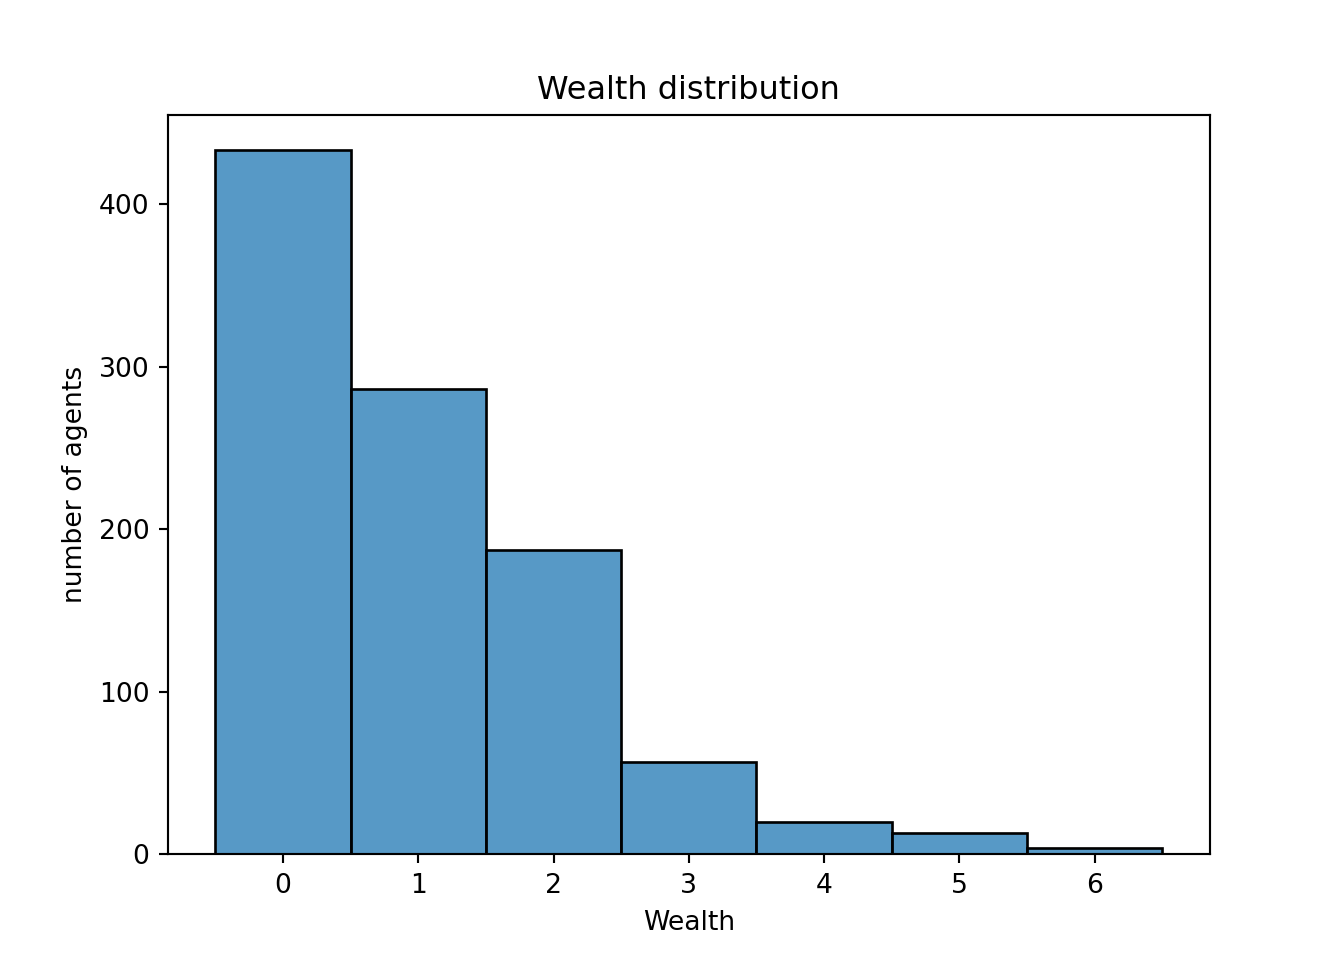
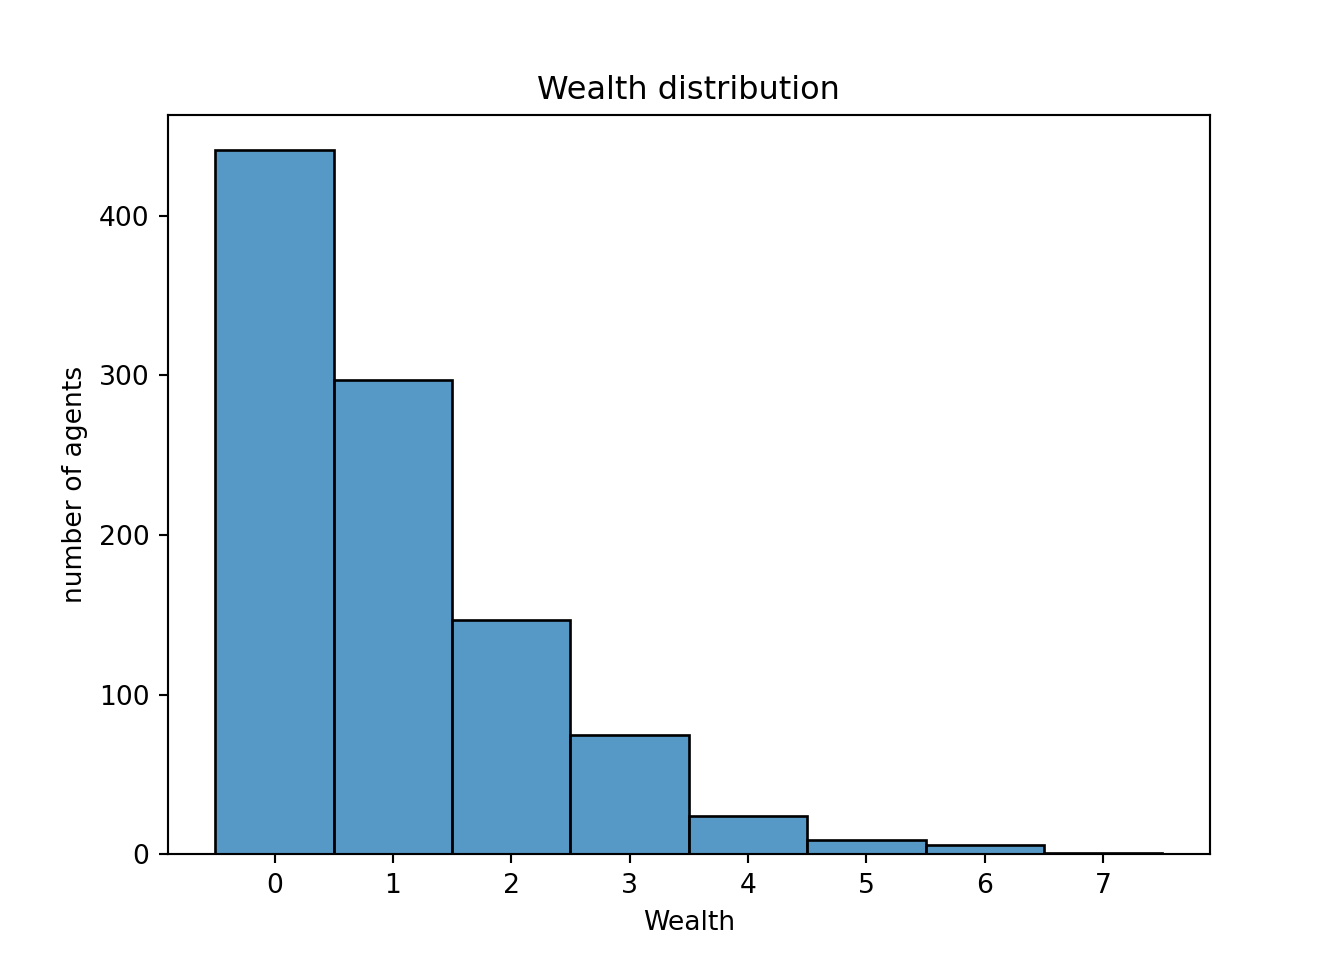
update

diff --git a/docs/index.html b/docs/index.html
@@ -8,7 +8,7 @@
 
 <meta name="author" content="楼上">
 <meta name="author" content="Mesa 开发团队 (提供demo)">
-<meta name="dcterms.date" content="2025-06-24">
+<meta name="dcterms.date" content="2025-06-25">
 <meta name="description" content="使用 R 调用 Mesa 库构建 ABM，模型 demo 完全来源于 Mesa 官方教程， 代码经过轻度改编，持续更新中。">
 
 <title>在 R 中使用 Python 模块 Mesa 来创建 ABM 模型</title>
@@ -162,6 +162,10 @@ pre > code.sourceCode > span > a:first-child::before { text-decoration: underlin
   <li><a href="#创建-cellagent" id="toc-创建-cellagent" class="nav-link" data-scroll-target="#创建-cellagent"><span class="header-section-number">3.4.1</span> 创建 CellAgent</a></li>
   <li><a href="#创建模型类-1" id="toc-创建模型类-1" class="nav-link" data-scroll-target="#创建模型类-1"><span class="header-section-number">3.4.2</span> 创建模型类</a></li>
   <li><a href="#运行模型-2" id="toc-运行模型-2" class="nav-link" data-scroll-target="#运行模型-2"><span class="header-section-number">3.4.3</span> 运行模型</a></li>
+  <li><a href="#可视化-1" id="toc-可视化-1" class="nav-link" data-scroll-target="#可视化-1"><span class="header-section-number">3.4.4</span> 可视化</a>
+  <ul class="collapse">
+  <li><a href="#用-r-可视化" id="toc-用-r-可视化" class="nav-link" data-scroll-target="#用-r-可视化"><span class="header-section-number">3.4.4.1</span> 用 R 可视化</a></li>
+  </ul></li>
   </ul></li>
   </ul></li>
   </ul>
@@ -199,7 +203,7 @@ pre > code.sourceCode > span > a:first-child::before { text-decoration: underlin
     <div>
     <div class="quarto-title-meta-heading">Published</div>
     <div class="quarto-title-meta-contents">
-      <p class="date">June 24, 2025</p>
+      <p class="date">June 25, 2025</p>
     </div>
   </div>
   
@@ -327,16 +331,16 @@ pre > code.sourceCode > span > a:first-child::before { text-decoration: underlin
 <span id="cb7-5"><a href="#cb7-5" aria-hidden="true" tabindex="-1"></a><span class="co">#运行模型的 step 方法，激活所有 Agent</span></span>
 <span id="cb7-6"><a href="#cb7-6" aria-hidden="true" tabindex="-1"></a>starter_model.step()</span></code><button title="Copy to Clipboard" class="code-copy-button"><i class="bi"></i></button></pre></div>
 <div class="cell-output cell-output-stdout">
-<pre><code>Hi, I am an agent, you can call me 7.
-Hi, I am an agent, you can call me 6.
-Hi, I am an agent, you can call me 8.
-Hi, I am an agent, you can call me 5.
-Hi, I am an agent, you can call me 9.
+<pre><code>Hi, I am an agent, you can call me 3.
 Hi, I am an agent, you can call me 2.
-Hi, I am an agent, you can call me 1.
+Hi, I am an agent, you can call me 7.
+Hi, I am an agent, you can call me 10.
+Hi, I am an agent, you can call me 5.
+Hi, I am an agent, you can call me 8.
+Hi, I am an agent, you can call me 9.
 Hi, I am an agent, you can call me 4.
-Hi, I am an agent, you can call me 3.
-Hi, I am an agent, you can call me 10.</code></pre>
+Hi, I am an agent, you can call me 1.
+Hi, I am an agent, you can call me 6.</code></pre>
 </div>
 </div>
 <p>如果在创建对象时传入了 <code>seed</code> 参数，则每次运行模型时 <code>Agent</code> 的顺序会保持一致。</p>
@@ -391,16 +395,16 @@ Hi, I am an agent, you can call me 8.</code></pre>
 <span id="cb11-28"><a href="#cb11-28" aria-hidden="true" tabindex="-1"></a>starter_model <span class="op">=</span> MoneyModel(<span class="dv">10</span>)</span>
 <span id="cb11-29"><a href="#cb11-29" aria-hidden="true" tabindex="-1"></a>starter_model.step()</span></code><button title="Copy to Clipboard" class="code-copy-button"><i class="bi"></i></button></pre></div>
 <div class="cell-output cell-output-stdout">
-<pre><code>Hi, I am an agent 5,and I have 1 dollars.
-Hi, I am an agent 8,and I have 1 dollars.
-Hi, I am an agent 2,and I have 1 dollars.
-Hi, I am an agent 9,and I have 1 dollars.
-Hi, I am an agent 4,and I have 1 dollars.
-Hi, I am an agent 6,and I have 1 dollars.
+<pre><code>Hi, I am an agent 4,and I have 1 dollars.
+Hi, I am an agent 5,and I have 1 dollars.
 Hi, I am an agent 7,and I have 1 dollars.
-Hi, I am an agent 3,and I have 1 dollars.
+Hi, I am an agent 6,and I have 1 dollars.
 Hi, I am an agent 10,and I have 1 dollars.
-Hi, I am an agent 1,and I have 1 dollars.</code></pre>
+Hi, I am an agent 8,and I have 1 dollars.
+Hi, I am an agent 3,and I have 1 dollars.
+Hi, I am an agent 1,and I have 1 dollars.
+Hi, I am an agent 9,and I have 1 dollars.
+Hi, I am an agent 2,and I have 1 dollars.</code></pre>
 </div>
 </div>
 </section>
@@ -547,12 +551,12 @@ Hi, I am an agent 1,and I have 1 dollars.</code></pre>
 <pre><code># A tibble: 6 × 1
   wealth
    &lt;int&gt;
-1      1
-2      2
-3      1
+1      0
+2      3
+3      0
 4      2
-5      2
-6      0</code></pre>
+5      1
+6      2</code></pre>
 </div>
 <div class="sourceCode cell-code" id="cb22"><pre class="sourceCode r code-with-copy"><code class="sourceCode r"><span id="cb22-1"><a href="#cb22-1" aria-hidden="true" tabindex="-1"></a><span class="fu">ggplot</span>(all_wealth_r, <span class="fu">aes</span>(<span class="at">x =</span> wealth)) <span class="sc">+</span></span>
 <span id="cb22-2"><a href="#cb22-2" aria-hidden="true" tabindex="-1"></a>  <span class="fu">geom_histogram</span>(<span class="at">binwidth =</span> <span class="dv">1</span>, <span class="at">boundary =</span> <span class="dv">0</span>, <span class="at">closed =</span> <span class="st">"left"</span>,</span>
@@ -757,8 +761,88 @@ Hi, I am an agent 1,and I have 1 dollars.</code></pre>
 </section>
 <section id="运行模型-2" class="level3" data-number="3.4.3">
 <h3 data-number="3.4.3" class="anchored" data-anchor-id="运行模型-2"><span class="header-section-number">3.4.3</span> 运行模型</h3>
+<p>在一个 10x10 的网格上创建一个包含 100 个智能体的模型，并运行 20 步。</p>
+<div class="cell language-marker" data-display-language="true">
+<div class="sourceCode cell-code" id="cb29"><pre class="sourceCode python code-with-copy"><code class="sourceCode python"><span id="cb29-1"><a href="#cb29-1" aria-hidden="true" tabindex="-1"></a>model <span class="op">=</span> MoneyModel(<span class="dv">100</span>, <span class="dv">10</span>, <span class="dv">10</span>)</span>
+<span id="cb29-2"><a href="#cb29-2" aria-hidden="true" tabindex="-1"></a><span class="cf">for</span> _ <span class="kw">in</span> <span class="bu">range</span>(<span class="dv">20</span>):</span>
+<span id="cb29-3"><a href="#cb29-3" aria-hidden="true" tabindex="-1"></a>    model.step()</span></code><button title="Copy to Clipboard" class="code-copy-button"><i class="bi"></i></button></pre></div>
+</div>
+</section>
+<section id="可视化-1" class="level3" data-number="3.4.4">
+<h3 data-number="3.4.4" class="anchored" data-anchor-id="可视化-1"><span class="header-section-number">3.4.4</span> 可视化</h3>
+<div class="cell language-marker" data-display-language="true">
+<div class="sourceCode cell-code" id="cb30"><pre class="sourceCode python code-with-copy"><code class="sourceCode python"><span id="cb30-1"><a href="#cb30-1" aria-hidden="true" tabindex="-1"></a>agent_counts <span class="op">=</span> np.zeros((model.grid.width, model.grid.height))</span>
+<span id="cb30-2"><a href="#cb30-2" aria-hidden="true" tabindex="-1"></a></span>
+<span id="cb30-3"><a href="#cb30-3" aria-hidden="true" tabindex="-1"></a><span class="cf">for</span> cell <span class="kw">in</span> model.grid.all_cells:</span>
+<span id="cb30-4"><a href="#cb30-4" aria-hidden="true" tabindex="-1"></a>    agent_counts[cell.coordinate] <span class="op">=</span> <span class="bu">len</span>(cell.agents)</span>
+<span id="cb30-5"><a href="#cb30-5" aria-hidden="true" tabindex="-1"></a></span>
+<span id="cb30-6"><a href="#cb30-6" aria-hidden="true" tabindex="-1"></a>g <span class="op">=</span> sns.heatmap(agent_counts, cmap<span class="op">=</span><span class="st">"viridis"</span>, annot<span class="op">=</span><span class="va">True</span>, cbar<span class="op">=</span><span class="va">False</span>, square<span class="op">=</span><span class="va">True</span>)</span>
+<span id="cb30-7"><a href="#cb30-7" aria-hidden="true" tabindex="-1"></a>g.figure.set_size_inches(<span class="dv">5</span>, <span class="dv">5</span>)</span>
+<span id="cb30-8"><a href="#cb30-8" aria-hidden="true" tabindex="-1"></a>g.<span class="bu">set</span>(title<span class="op">=</span><span class="st">"Number of agents on each cell of the grid"</span>)<span class="op">;</span></span>
+<span id="cb30-9"><a href="#cb30-9" aria-hidden="true" tabindex="-1"></a>plt.show()</span></code><button title="Copy to Clipboard" class="code-copy-button"><i class="bi"></i></button></pre></div>
+<div class="cell-output-display">
+<div>
+<figure class="figure">
+<p><a href="index_files/figure-html/unnamed-chunk-22-1.png" class="lightbox" data-gallery="quarto-lightbox-gallery-8"><img src="index_files/figure-html/unnamed-chunk-22-1.png" class="img-fluid figure-img" width="480"></a></p>
+</figure>
+</div>
+</div>
+</div>
+<section id="用-r-可视化" class="level4" data-number="3.4.4.1">
+<h4 data-number="3.4.4.1" class="anchored" data-anchor-id="用-r-可视化"><span class="header-section-number">3.4.4.1</span> 用 R 可视化</h4>
+<p>使用 <code>ggplot2</code> 手动绘制。</p>
+<div class="cell language-marker" data-display-language="true">
+<div class="sourceCode cell-code" id="cb31"><pre class="sourceCode r code-with-copy"><code class="sourceCode r"><span id="cb31-1"><a href="#cb31-1" aria-hidden="true" tabindex="-1"></a>agent_counts <span class="ot">=</span> py<span class="sc">$</span>agent_counts <span class="sc">%&gt;%</span> </span>
+<span id="cb31-2"><a href="#cb31-2" aria-hidden="true" tabindex="-1"></a>  <span class="fu">as_tibble</span>() <span class="sc">%&gt;%</span> </span>
+<span id="cb31-3"><a href="#cb31-3" aria-hidden="true" tabindex="-1"></a>  <span class="fu">rename_with</span>(<span class="sc">~</span> <span class="fu">as.character</span>(<span class="fu">seq_along</span>(.))) <span class="sc">%&gt;%</span> </span>
+<span id="cb31-4"><a href="#cb31-4" aria-hidden="true" tabindex="-1"></a>  <span class="fu">mutate</span>(<span class="at">row =</span> <span class="fu">factor</span>(<span class="dv">1</span><span class="sc">:</span><span class="fu">n</span>())) <span class="sc">%&gt;%</span> </span>
+<span id="cb31-5"><a href="#cb31-5" aria-hidden="true" tabindex="-1"></a>  <span class="fu">pivot_longer</span>(<span class="sc">-</span>row, <span class="at">names_to=</span><span class="st">"col"</span>, <span class="at">values_to=</span><span class="st">"value"</span>) <span class="sc">%&gt;%</span> </span>
+<span id="cb31-6"><a href="#cb31-6" aria-hidden="true" tabindex="-1"></a>  <span class="fu">mutate</span>(<span class="at">col =</span> <span class="fu">as.numeric</span>(col) <span class="sc">%&gt;%</span> factor)</span></code><button title="Copy to Clipboard" class="code-copy-button"><i class="bi"></i></button></pre></div>
+<div class="cell-output cell-output-stderr">
+<pre><code>Warning: The `x` argument of `as_tibble.matrix()` must have unique column names if
+`.name_repair` is omitted as of tibble 2.0.0.
+ℹ Using compatibility `.name_repair`.</code></pre>
+</div>
+<div class="sourceCode cell-code" id="cb33"><pre class="sourceCode r code-with-copy"><code class="sourceCode r"><span id="cb33-1"><a href="#cb33-1" aria-hidden="true" tabindex="-1"></a><span class="fu">ggplot</span>(agent_counts,<span class="fu">aes</span>(col, row, <span class="at">fill =</span> value, <span class="at">label =</span> value)) <span class="sc">+</span></span>
+<span id="cb33-2"><a href="#cb33-2" aria-hidden="true" tabindex="-1"></a>  <span class="fu">geom_tile</span>() <span class="sc">+</span></span>
+<span id="cb33-3"><a href="#cb33-3" aria-hidden="true" tabindex="-1"></a>  <span class="fu">geom_text</span>(<span class="at">color =</span> <span class="st">"white"</span>) <span class="sc">+</span></span>
+<span id="cb33-4"><a href="#cb33-4" aria-hidden="true" tabindex="-1"></a>  <span class="fu">scale_fill_viridis_c</span>(<span class="at">option =</span> <span class="st">"viridis"</span>) <span class="sc">+</span> </span>
+<span id="cb33-5"><a href="#cb33-5" aria-hidden="true" tabindex="-1"></a>  <span class="fu">scale_y_discrete</span>(<span class="at">limits =</span> <span class="fu">rev</span>(<span class="fu">levels</span>(agent_counts<span class="sc">$</span>row))) <span class="sc">+</span>  </span>
+<span id="cb33-6"><a href="#cb33-6" aria-hidden="true" tabindex="-1"></a>  <span class="fu">coord_fixed</span>() <span class="sc">+</span> </span>
+<span id="cb33-7"><a href="#cb33-7" aria-hidden="true" tabindex="-1"></a>  <span class="fu">theme_minimal</span>() <span class="sc">+</span></span>
+<span id="cb33-8"><a href="#cb33-8" aria-hidden="true" tabindex="-1"></a>  <span class="fu">ggtitle</span>(<span class="st">"Number of agents on each cell of the grid"</span>) <span class="sc">+</span></span>
+<span id="cb33-9"><a href="#cb33-9" aria-hidden="true" tabindex="-1"></a>  <span class="fu">theme</span>(</span>
+<span id="cb33-10"><a href="#cb33-10" aria-hidden="true" tabindex="-1"></a>    <span class="at">legend.position =</span> <span class="st">"none"</span>,</span>
+<span id="cb33-11"><a href="#cb33-11" aria-hidden="true" tabindex="-1"></a>    <span class="at">plot.title =</span> <span class="fu">element_text</span>(<span class="at">hjust =</span> <span class="fl">0.5</span>)</span>
+<span id="cb33-12"><a href="#cb33-12" aria-hidden="true" tabindex="-1"></a>  ) <span class="sc">+</span></span>
+<span id="cb33-13"><a href="#cb33-13" aria-hidden="true" tabindex="-1"></a>  <span class="fu">labs</span>(<span class="at">x =</span> <span class="cn">NULL</span>, <span class="at">y =</span> <span class="cn">NULL</span>)</span></code><button title="Copy to Clipboard" class="code-copy-button"><i class="bi"></i></button></pre></div>
+<div class="cell-output-display">
+<div>
+<figure class="figure">
+<p><a href="index_files/figure-html/unnamed-chunk-23-3.png" class="lightbox" data-gallery="quarto-lightbox-gallery-9"><img src="index_files/figure-html/unnamed-chunk-23-3.png" class="img-fluid figure-img" width="672"></a></p>
+</figure>
+</div>
+</div>
+</div>
+<p>或者调用一些更方便的包，如 <code>tidyheatmaps</code>。</p>
+<div class="cell">
+<div class="sourceCode cell-code" id="cb34"><pre class="sourceCode r code-with-copy"><code class="sourceCode r"><span id="cb34-1"><a href="#cb34-1" aria-hidden="true" tabindex="-1"></a><span class="fu">library</span>(tidyheatmaps)</span>
+<span id="cb34-2"><a href="#cb34-2" aria-hidden="true" tabindex="-1"></a><span class="fu">tidyheatmap</span>(agent_counts, row, col, value, <span class="at">colors =</span> viridis<span class="sc">::</span><span class="fu">viridis</span>(<span class="dv">100</span>),</span>
+<span id="cb34-3"><a href="#cb34-3" aria-hidden="true" tabindex="-1"></a>            <span class="at">display_numbers =</span> T, <span class="at">number_format =</span> <span class="st">"%.0f"</span>, <span class="at">number_color =</span> <span class="st">"white"</span>,</span>
+<span id="cb34-4"><a href="#cb34-4" aria-hidden="true" tabindex="-1"></a>            <span class="at">fontsize_number =</span> <span class="dv">10</span>,<span class="at">legend =</span> F,<span class="at">cellwidth =</span> <span class="dv">20</span>, <span class="at">cellheigh =</span> <span class="dv">20</span>,</span>
+<span id="cb34-5"><a href="#cb34-5" aria-hidden="true" tabindex="-1"></a>            <span class="at">angle_col =</span> <span class="dv">0</span>,</span>
+<span id="cb34-6"><a href="#cb34-6" aria-hidden="true" tabindex="-1"></a>            <span class="at">main =</span> <span class="st">"Number of agents on each cell of the grid"</span>)</span></code><button title="Copy to Clipboard" class="code-copy-button"><i class="bi"></i></button></pre></div>
+<div class="cell-output-display">
+<div>
+<figure class="figure">
+<p><a href="index_files/figure-html/unnamed-chunk-24-1.png" class="lightbox" data-gallery="quarto-lightbox-gallery-10"><img src="index_files/figure-html/unnamed-chunk-24-1.png" class="img-fluid figure-img" width="672"></a></p>
+</figure>
+</div>
+</div>
+</div>
 
 
+</section>
 </section>
 </section>
 </section>
